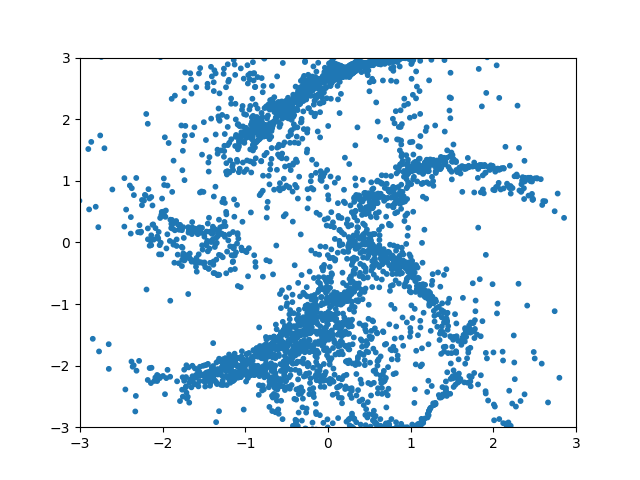
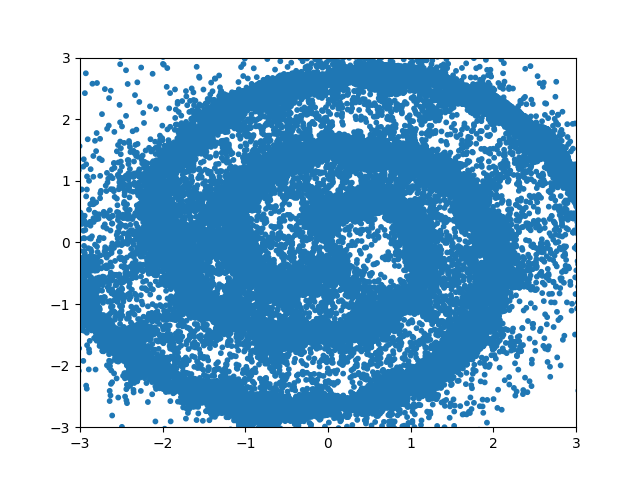
generic commit

diff --git a/scripts/transport/c_transport.py b/scripts/transport/c_transport.py
@@ -327,7 +327,7 @@ def conditional_gen(trained_models, ref_sample, cond_sample):
 
 
 
-def comp_gen_exp(ref_gen, target_gen, N = 1000, n_iter = 1001, exp_name= 'exp', plt_range = None):
+def comp_gen_exp(ref_gen, target_gen, N = 1000, n_iter = 1001, exp_name= 'exp', plt_range = None, vmax = None):
     save_dir = f'../../data/kernel_transport/{exp_name}'
     try:
         os.mkdir(save_dir)
@@ -351,10 +351,10 @@ def comp_gen_exp(ref_gen, target_gen, N = 1000, n_iter = 1001, exp_name= 'exp', 
 
 
     sample_scatter(gen_sample, f'{save_dir}/gen_scatter.png', bins=25, d=2, range=plt_range)
-    sample_hmap(gen_sample, f'{save_dir}/gen_map.png', bins=50, d=2, range=plt_range)
+    sample_hmap(gen_sample, f'{save_dir}/gen_map.png', bins=50, d=2, range=plt_range, vmax= vmax)
 
     sample_scatter(Y_mu_plot, f'{save_dir}/target.png', bins=25, d=2, range=plt_range)
-    sample_hmap(Y_mu_plot, f'{save_dir}/target_map.png', bins=50, d=2, range=plt_range)
+    sample_hmap(Y_mu_plot, f'{save_dir}/target_map.png', bins=50, d=2, range=plt_range, vmax= vmax)
 
     return True
 
@@ -409,7 +409,7 @@ def run():
     target_gen = sample_spirals
     range = [[-3,3],[-3,3]]
 
-    comp_gen_exp(ref_gen, target_gen, N=3000, n_iter=6001, exp_name='spiral_composed', plt_range=range)
+    comp_gen_exp(ref_gen, target_gen, N=5000, n_iter=6001, exp_name='spiral_composed', plt_range=range, vmax = .15)
 
     #slice_range = [-2.5,2.5]
     #process_funcs = []

diff --git a/scripts/transport/fit_kernel.py b/scripts/transport/fit_kernel.py
@@ -94,7 +94,7 @@ def sample_scatter(sample, save_loc, bins = 20, d = 2, range = None):
     x, y = sample.T
     x = np.asarray(x)
     y = np.asarray(y)
-    size = 10
+    size = 6
     s = [size for x in x]
     plt.scatter(x,y, s=s)
     
